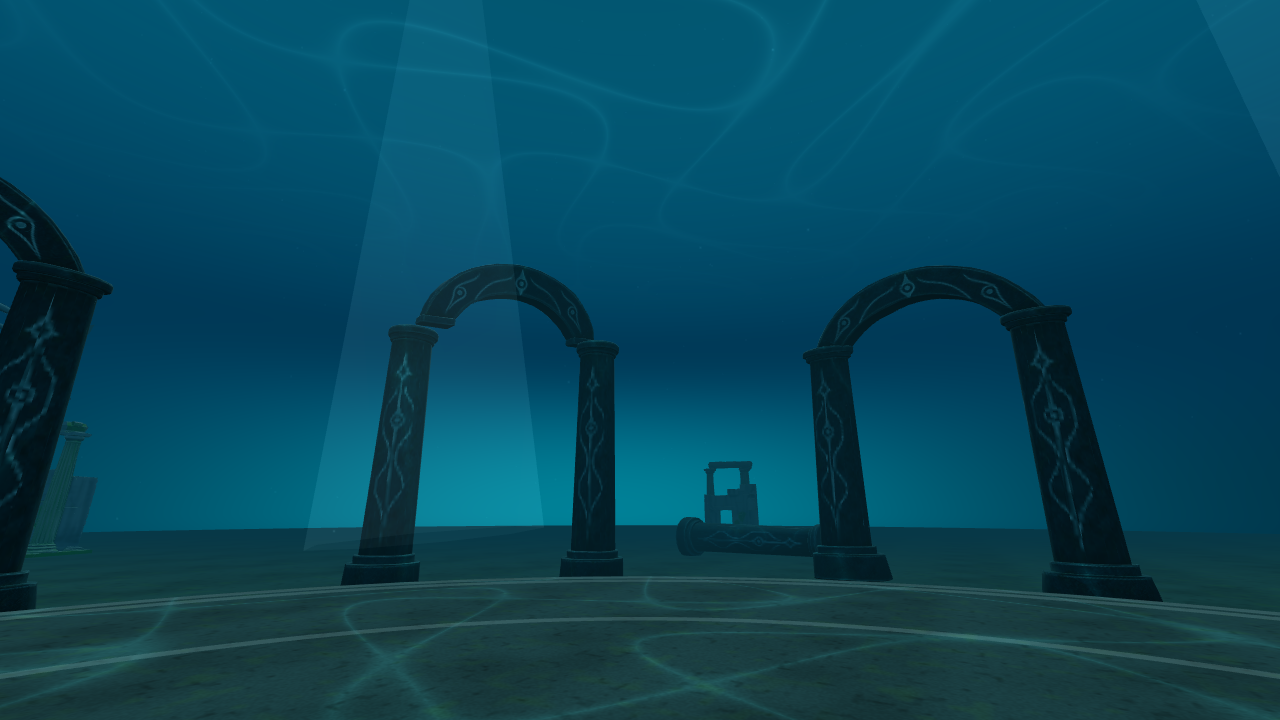
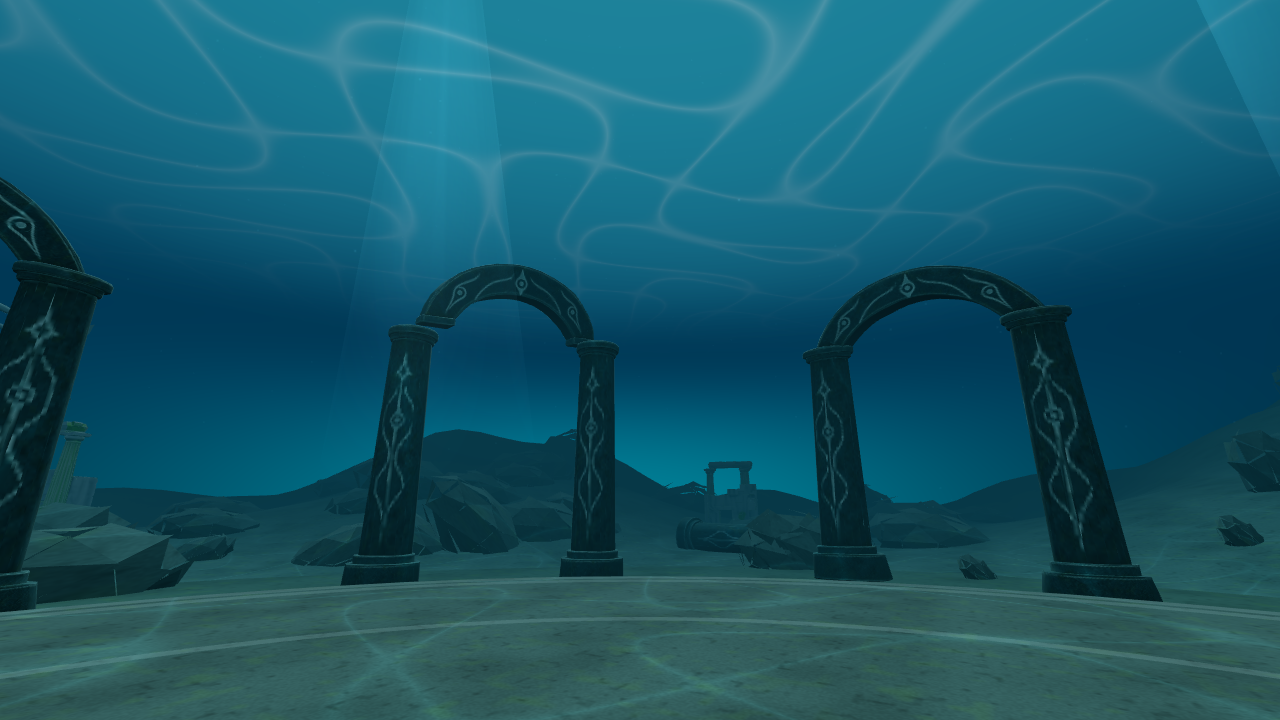
Ground the drowned temple in rocky underwater terrain

diff --git a/tests/browser/drowned-temple.spec.js b/tests/browser/drowned-temple.spec.js
@@ -9,8 +9,9 @@ test('Drowned Temple loads, keeps the ritual floor clear, provides quiet modes a
   document.querySelectorAll('.screen').forEach(s=>s.classList.add('off'));VR.camera.position.set(0,1.6,0);const target=VR.dir(60).multiplyScalar(22).setY(8);VR.camera.lookAt(target);VR.renderer.render(VR.scene,VR.camera);
   const inst=VR.world.inst,clearance=Math.min(...inst.pillars.map(p=>Math.hypot(p.position.x,p.position.z)-1.2));
   const models=inst.models.userData,boxes=inst.models.children.map(o=>new THREE.Box3().setFromObject(o));const modelClearance=Math.min(...boxes.map(b=>Math.hypot(Math.max(b.min.x,0,-b.max.x),Math.max(b.min.z,0,-b.max.z))));
-  return {models:models.status,parts:models.parts,fallen:inst.models.children.filter(o=>o.userData.fallen).length,ruins:models.ruins.count,modelClearance,particles:inst.particles.points.geometry.attributes.position.count,clearance,canopy:VR.worldGroup.getObjectByName('Ocean canopy').position.y,fish:VR.worldGroup.getObjectByName('Distant fish school').count,resources:VR.resourceSnapshot()};
- });expect(result.clearance).toBeGreaterThan(12);expect(result.canopy).toBe(24);expect(result.fish).toBe(96);expect(result.models).toBe('ready');expect(result.parts).toEqual({'full-arch':4,pillar:10,'arch-span':4});expect(result.fallen).toBe(6);expect(result.ruins).toBe(6);expect(result.modelClearance).toBeGreaterThan(13.5);expect(result.particles).toBe(700);
+  const terrainPositions=inst.terrain.ground.geometry.attributes.position;let terrainClearance=Infinity;for(let i=0;i<terrainPositions.count;i++)terrainClearance=Math.min(terrainClearance,Math.hypot(terrainPositions.getX(i),terrainPositions.getZ(i)));
+  return {terrainClearance,rocks:inst.terrain.rocks.count,models:models.status,parts:models.parts,fallen:inst.models.children.filter(o=>o.userData.fallen).length,ruins:models.ruins.count,modelClearance,particles:inst.particles.points.geometry.attributes.position.count,clearance,canopy:VR.worldGroup.getObjectByName('Ocean canopy').position.y,fish:VR.worldGroup.getObjectByName('Distant fish school').count,resources:VR.resourceSnapshot()};
+ });expect(result.clearance).toBeGreaterThan(12);expect(result.canopy).toBe(24);expect(result.fish).toBe(96);expect(result.models).toBe('ready');expect(result.parts).toEqual({'full-arch':4,pillar:10,'arch-span':4});expect(result.fallen).toBe(6);expect(result.ruins).toBe(6);expect(result.modelClearance).toBeGreaterThan(13.5);expect(result.particles).toBe(700);expect(result.terrainClearance).toBeGreaterThan(15.4);expect(result.rocks).toBe(160);
  await page.screenshot({path:info.outputPath('drowned-temple.png')});
  const checks=await page.evaluate(async()=>{
   const inst=VR.world.inst,tail=VR.worldGroup.getObjectByName('Fish tails'),before=Array.from(tail.instanceMatrix.array);for(let i=0;i<30;i++)inst.update(1/60,3+i/60);const tailMoves=before.some((v,i)=>Math.abs(v-tail.instanceMatrix.array[i])>.0001);
@@ -20,7 +21,7 @@ test('Drowned Temple loads, keeps the ritual floor clear, provides quiet modes a
   const render=()=>VR.renderer.render(VR.scene,VR.camera);VR.loadWorld('room');render();const warm=VR.resourceSnapshot();for(let i=0;i<3;i++){VR.loadWorld('drowned-temple');await VR.world.inst.models.userData.ready;VR.world.inst.update(.016,0);render();VR.loadWorld('room');render();}const end=VR.resourceSnapshot();
   VR.loadWorld('drowned-temple');const lateReady=VR.world.inst.models.userData.ready;VR.loadWorld('room');await lateReady;render();const late=VR.resourceSnapshot();
   VR.settings.simplified=true;VR.loadWorld('drowned-temple');VR.world.inst.update(.016,80);render();const simpleFish=VR.worldGroup.getObjectByName('Distant fish school').count,simpleQuiet=VR.world.inst.water.water.material.uniforms.quiet.value===1;
-  return {quiet,reduced,warm,end,late,tailMoves,fishBounds,simpleModels:VR.world.inst.models===null,simpleFish,simpleQuiet};
- });expect(checks.quiet&&checks.reduced&&checks.simpleQuiet&&checks.tailMoves&&checks.fishBounds&&checks.simpleModels).toBe(true);expect(checks.simpleFish).toBe(16);expect(checks.end.geometries).toBe(checks.warm.geometries);expect(checks.end.textures).toBe(checks.warm.textures);expect(checks.late.geometries).toBe(checks.warm.geometries);expect(checks.late.textures).toBe(checks.warm.textures);expect(errors).toEqual([]);
+  return {simpleRocks:VR.world.inst.terrain.rocks.count,quiet,reduced,warm,end,late,tailMoves,fishBounds,simpleModels:VR.world.inst.models===null,simpleFish,simpleQuiet};
+ });expect(checks.quiet&&checks.reduced&&checks.simpleQuiet&&checks.tailMoves&&checks.fishBounds&&checks.simpleModels).toBe(true);expect(checks.simpleFish).toBe(16);expect(checks.simpleRocks).toBe(32);expect(checks.end.geometries).toBe(checks.warm.geometries);expect(checks.end.textures).toBe(checks.warm.textures);expect(checks.late.geometries).toBe(checks.warm.geometries);expect(checks.late.textures).toBe(checks.warm.textures);expect(errors).toEqual([]);
  writeFileSync(info.outputPath('drowned-temple-resources.json'),JSON.stringify({result,checks},null,2));
 });

diff --git a/worlds/drowned-temple.js b/worlds/drowned-temple.js
@@ -2,18 +2,20 @@ import {stoneMaps,weatheredStone} from './stone-surface.js';
 import {templeWater,templeProjection} from './temple-water.js';
 import {templeModels} from './temple-models.js';
 import {templeFish} from './temple-fish.js';
+import {templeTerrain} from './temple-terrain.js';
 VR.registerWorld({id:'drowned-temple',name:'The Drowned Temple',blurb:'An air-filled sanctuary beneath the ocean, with weathered arches, drifting fish and sunlight rippling across the stone.',
  build(ctx){
   const g=ctx.group,K=VR.kit,dir=VR.dir,hash=VR.hash;
   // Match the distant background to the scattering color so fog has no visible boundary.
   ctx.setFog(0x073847,.04);const sky=K.sky(g,{top:0x185c73,mid:0x0b3c51,horizon:0x073847,glow:0x205e6b,glowBearing:55,glowPower:4,opposite:0x073847,oppositeAmount:0,below:0x073847});
   sky.material.fragmentShader=sky.material.fragmentShader.replace('uHor*.55','c').replace('gl_FragColor=vec4(c,1.);','gl_FragColor=vec4(c,1.);\n#include <tonemapping_fragment>\n#include <colorspace_fragment>\n');
-  g.add(new THREE.HemisphereLight(0x9dd9e4,0x112a2a,1.1));const sun=new THREE.DirectionalLight(0xc3edf0,1.5);sun.position.copy(dir(55).multiplyScalar(35)).setY(50);g.add(sun);
+  g.add(new THREE.HemisphereLight(0x9dd9e4,0x244b4b,2.0));const sun=new THREE.DirectionalLight(0xc3edf0,2.8);sun.position.copy(dir(55).multiplyScalar(35)).setY(50);g.add(sun);
   const maps=stoneMaps(ctx.simplified),stone=new THREE.MeshStandardMaterial({color:0x6d8989,map:maps.map,bumpMap:maps.bumpMap,bumpScale:.05,roughness:.98,vertexColors:true});
   const floorMat=new THREE.MeshStandardMaterial({color:0x526967,map:maps.map,bumpMap:maps.bumpMap,bumpScale:.025,roughness:.95});
   const sandGeo=new THREE.CircleGeometry(85,64),sandUV=sandGeo.attributes.uv;for(let i=0;i<sandUV.count;i++)sandUV.setXY(i,sandUV.getX(i)*30,sandUV.getY(i)*30);
   const sand=new THREE.Mesh(sandGeo,new THREE.MeshStandardMaterial({color:0x506e65,map:maps.map,roughness:1}));sand.name='Distant sandy seabed';sand.rotation.x=-Math.PI/2;sand.position.y=-.78;g.add(sand);
   const projection=templeProjection(ctx.simplified);projection.apply(stone);projection.apply(floorMat);
+  const terrain=templeTerrain(ctx,stone);
   const floorGeo=new THREE.CircleGeometry(13.5,64),uv=floorGeo.attributes.uv;for(let i=0;i<uv.count;i++)uv.setXY(i,uv.getX(i)*9,uv.getY(i)*9);
   const floor=new THREE.Mesh(floorGeo,floorMat);floor.rotation.x=-Math.PI/2;floor.name='Clear temple ritual floor';g.add(floor);
   const terrace=new THREE.Mesh(new THREE.CylinderGeometry(14.3,15.3,.7,48),floorMat);terrace.position.y=-.4;g.add(terrace);
@@ -30,11 +32,11 @@ VR.registerWorld({id:'drowned-temple',name:'The Drowned Temple',blurb:'An air-fi
   const models=templeModels(ctx,[...arches,...pillars,...ruins],projection);
   const water=templeWater(ctx.simplified);g.add(water.water);
   const shafts=new THREE.Group();shafts.name='Submerged sun shafts';g.add(shafts);
-  const shaftMat=new THREE.MeshBasicMaterial({color:0x8fe8eb,transparent:true,opacity:ctx.simplified?.025:.035,depthWrite:false,side:THREE.DoubleSide,blending:THREE.AdditiveBlending});
+  const shaftMat=new THREE.ShaderMaterial({uniforms:{strength:{value:ctx.simplified?.035:.09}},transparent:true,depthWrite:false,side:THREE.DoubleSide,blending:THREE.AdditiveBlending,vertexShader:'varying vec2 beamUV;void main(){beamUV=uv;gl_Position=projectionMatrix*modelViewMatrix*vec4(position,1.);}',fragmentShader:'varying vec2 beamUV;uniform float strength;void main(){float sideFade=pow(abs(sin(beamUV.x*6.283185)),2.);float endFade=sin(beamUV.y*3.141593);gl_FragColor=vec4(.5,.85,.9,strength*sideFade*endFade*endFade);}' });
   for(let i=0;i<(ctx.simplified?2:4);i++){const beam=new THREE.Mesh(new THREE.CylinderGeometry(.35,2.1,22,8,1,true),shaftMat);beam.position.copy(dir(35+i*85).multiplyScalar(12)).setY(12);beam.rotation.z=.12;shafts.add(beam);}
   const fish=templeFish(ctx);
   const particles=K.motes(g,{count:ctx.simplified?100:700,radius:26,height:22,palette:[0x74aab5,0xb5d7d5,0x81b9c5],size:.06,speed:.2,opacity:.28,minY:1});particles.points.name='Suspended marine particles';
-  return {water,pillars,projection,models,particles,fish,update(dt,T){const quiet=VR.calm()||VR.reducedMotion||ctx.simplified;water.update(T);projection.update(T);fish.update(dt,T);
+  return {water,pillars,projection,models,particles,fish,terrain,update(dt,T){const quiet=VR.calm()||VR.reducedMotion||ctx.simplified;water.update(T);projection.update(T);fish.update(dt,T);shaftMat.uniforms.strength.value=quiet?.025:VR.settings.intensity==='soft'?.05:.09;
    if(!quiet)particles.update(dt,T);
   }};
  }

diff --git a/worlds/temple-terrain.js b/worlds/temple-terrain.js
@@ -1,0 +1,27 @@
+// One terrain draw and one shared rubble draw; the level ritual floor stays clear.
+export function templeTerrain(ctx,material){
+ const simple=ctx.simplified,segments=simple?64:160,rings=simple?12:32;
+ const positions=[],colors=[],uvs=[],indices=[];
+ for(let j=0;j<=rings;j++)for(let i=0;i<=segments;i++){
+  const a=i/segments*Math.PI*2,r=15.5+j/rings*65,x=Math.sin(a)*r,z=Math.cos(a)*r;
+  const rise=Math.max(0,(r-25)/55);
+  const ridge=Math.pow(.5+.5*Math.sin(a*5+.8),2);
+  const y=-.8+rise*(3+ridge*11)+rise*(Math.sin(x*.21)*Math.cos(z*.17)*2.3);
+  positions.push(x,y,z);uvs.push(x*.24,z*.24);
+  const shade=.65+.2*VR.hash(i+j*segments);colors.push(shade*.8,shade,shade*.96);
+  if(j<rings&&i<segments){const n=j*(segments+1)+i;indices.push(n,n+segments+1,n+1,n+1,n+segments+1,n+segments+2);}
+ }
+ const geo=new THREE.BufferGeometry();geo.setAttribute('position',new THREE.Float32BufferAttribute(positions,3));geo.setAttribute('color',new THREE.Float32BufferAttribute(colors,3));geo.setAttribute('uv',new THREE.Float32BufferAttribute(uvs,2));geo.setIndex(indices);geo.computeVertexNormals();
+ const ground=new THREE.Mesh(geo,material);ground.name='Sloping temple seabed';ctx.group.add(ground);
+ const rockGeo=new THREE.IcosahedronGeometry(1,simple?0:1),p=rockGeo.attributes.position,c=[];
+ for(let i=0;i<p.count;i++){const h=VR.hash(i+871);p.setXYZ(i,p.getX(i)*(1+h*.25),p.getY(i)*(1+h*.2),p.getZ(i)*(1+h*.25));c.push(.65+h*.2,.72+h*.2,.7+h*.2);}
+ rockGeo.setAttribute('color',new THREE.Float32BufferAttribute(c,3));rockGeo.computeVertexNormals();
+ const count=simple?32:160,rocks=new THREE.InstancedMesh(rockGeo,material,count),dummy=new THREE.Object3D();rocks.name='Scattered seabed rocks';
+ for(let i=0;i<count;i++){
+  const a=VR.hash(i+21)*Math.PI*2,r=21+VR.hash(i+321)*45,x=Math.sin(a)*r,z=Math.cos(a)*r,rise=Math.max(0,(r-25)/55),ridge=Math.pow(.5+.5*Math.sin(a*5+.8),2);
+  const y=-.8+rise*(3+ridge*11)+rise*Math.sin(x*.21)*Math.cos(z*.17)*2.3;
+  const size=.5+VR.hash(i+891)*2.2;dummy.position.set(x,y,z);dummy.scale.set(size*1.4,size*.7,size);dummy.rotation.set(VR.hash(i+431),a,VR.hash(i+531));dummy.updateMatrix();rocks.setMatrixAt(i,dummy.matrix);
+ }
+ rocks.computeBoundingSphere();ctx.group.add(rocks);
+ return {ground,rocks};
+}

diff --git a/worlds/temple-water.js b/worlds/temple-water.js
@@ -23,7 +23,7 @@ export function templeWater(simplified){
  const water=new THREE.Mesh(new THREE.PlaneGeometry(180,180,simplified?16:64,simplified?16:64),new THREE.ShaderMaterial({side:THREE.DoubleSide,transparent:true,depthWrite:false,uniforms,
   vertexShader:`varying vec2 p;varying vec3 worldPosition;uniform float time;uniform float quiet;void main(){p=position.xy;vec3 v=position;v.z+=(sin(p.x*.17+time*.12)+cos(p.y*.21-time*.1))*.25*(1.-quiet);worldPosition=(modelMatrix*vec4(v,1.)).xyz;gl_Position=projectionMatrix*modelViewMatrix*vec4(v,1.);}`,
   // Fade before the square mesh perimeter; view distance also softens the horizon in each XR eye.
-  fragmentShader:`varying vec2 p;varying vec3 worldPosition;uniform float time;uniform float strength;void main(){float a=sin(p.x*.31+sin(p.y*.23+time*.06)*2.+time*.08);float b=cos(p.y*.29+sin(p.x*.21-time*.05)*2.-time*.07);float ridge=pow(1.-abs(a*b),16.);float distanceFade=exp(-pow(length(worldPosition-cameraPosition)*.025,2.));float edgeFade=1.-smoothstep(40.,80.,length(p));vec3 c=mix(vec3(.025,.24,.31),vec3(.22,.65,.7),ridge*.8*distanceFade);gl_FragColor=vec4(c,strength*edgeFade*distanceFade);}`
+  fragmentShader:`varying vec2 p;varying vec3 worldPosition;uniform float time;uniform float strength;void main(){float a=sin(p.x*.31+sin(p.y*.23+time*.06)*2.+time*.08);float b=cos(p.y*.29+sin(p.x*.21-time*.05)*2.-time*.07);float ridge=pow(1.-abs(a*b),16.);float distanceFade=exp(-pow(length(worldPosition-cameraPosition)*.018,2.));float edgeFade=1.-smoothstep(40.,80.,length(p));vec3 c=mix(vec3(.035,.29,.38),vec3(.42,.85,.9),ridge*.8*distanceFade);gl_FragColor=vec4(c,strength*edgeFade*distanceFade);\n#include <tonemapping_fragment>\n#include <colorspace_fragment>\n}`
  }));water.rotation.x=-Math.PI/2;water.position.y=24;water.name='Ocean canopy';
  return {water,update(T){const quiet=VR.calm()||VR.reducedMotion||simplified;uniforms.quiet.value=quiet?1:0;uniforms.time.value=quiet?0:T;uniforms.strength.value=quiet?.3:.55;}};
 }

diff --git a/docs/verification-results.md b/docs/verification-results.md
@@ -140,3 +140,8 @@ Build, independent embedded-GLB validation and the updated browser test pass. Th
 
 ![Separated full arch, pillar and arch span](captures/temple-separated-parts.png)
 
+### Reference-led Drowned Temple landscape pass
+
+The underwater reference guides a sloping seabed, clustered low-poly rocks and a brighter rippled surface canopy. Terrain begins at 15.5m, outside the level 13.5m ritual floor; rocks begin at 21m. The supplied separated arches/pillars/spans retain their current composition. Terrain and 160 shared instanced rocks add two geometries without additional textures; simplified mode uses a coarser terrain and 32 rocks. Sun shafts soften toward their ends, dim in quiet mode, and the canopy now includes output color conversion. No new generated assets or credits were used.
+
+Production build, seven Node tests and the targeted temple browser test pass. The capture reports 68,529 triangles, 24 draws, 20 geometries and ten textures. Loaded and late-load teardown both return to four geometries and three textures. Browser tests additionally assert terrain clearance and simplified rock count. This is a first composition pass toward the reference, rather than matching its photorealistic materials. Physical Quest stereo appearance, comfort and frame time remain untested.
